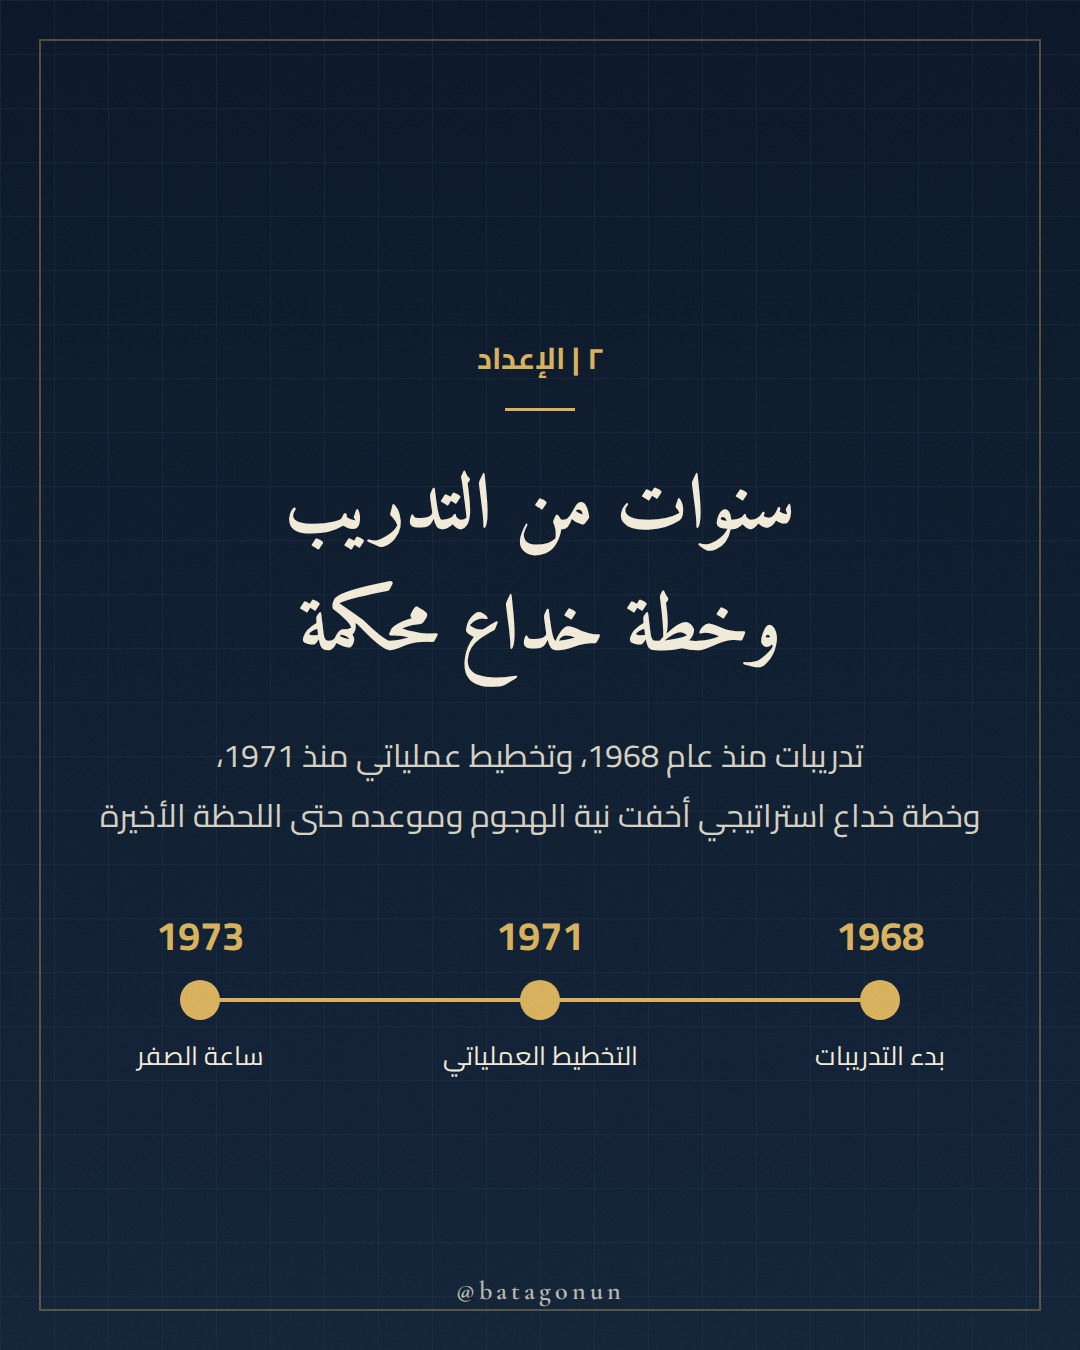
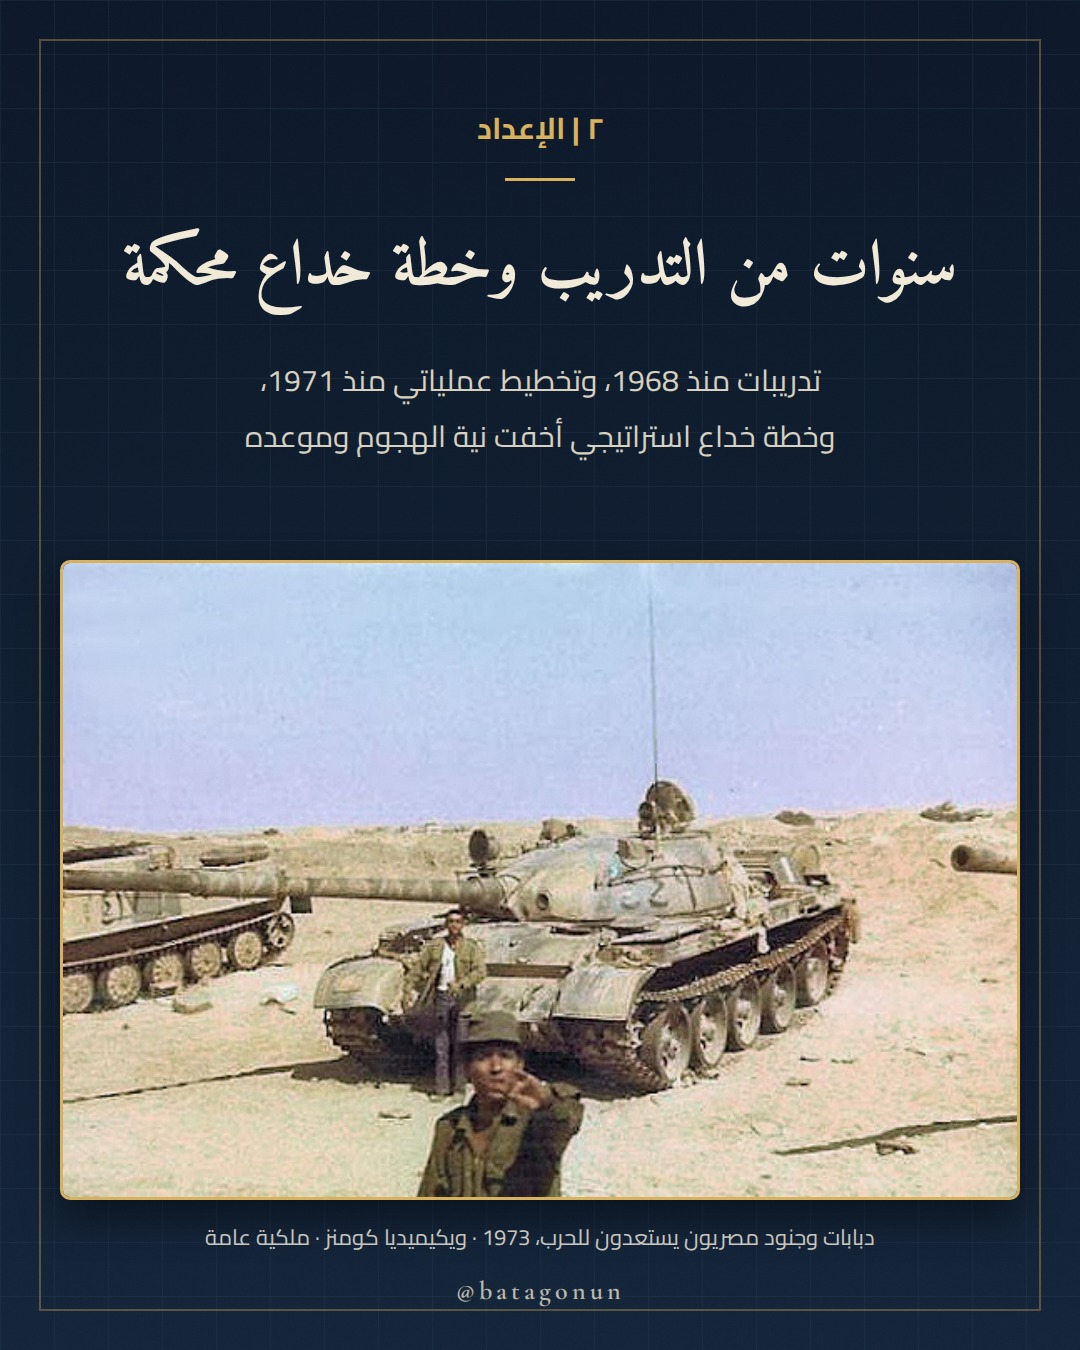
خطة بدر: كل الشرائح العشر بصور حقيقية من الملكية العامة
Claude-Session: https://claude.ai/code/session_014DGXiXjySD2k7u4dBqwjVk

diff --git a/instagram-agent/posts/build_badr.py b/instagram-agent/posts/build_badr.py
@@ -58,21 +58,23 @@ def stat(x,y,n,l): return f'<rect x="{x-200}" y="{y-80}" width="400" height="190
 numbers = stat(760,830,'10','كباري ثقيلة')+stat(320,830,'10','كباري عائمة')+stat(760,1060,'35','معدية')+stat(320,1060,'≈ 80 ألف','جندي عبروا بحلول منتصف الليل')
 
 CR='ويكيميديا كومنز · ملكية عامة'
+def P(i,tag,head,sub,photo,credit,size=72,subSize=30,boxTop=600,boxH=600,boxPos='center'):
+    return dict(id=i,scene='brief',tag=tag,headline=head,size=size,sub=sub,subSize=subSize,top=100,box='assets/photos/'+photo,boxTop=boxTop,boxH=boxH,boxPos=boxPos,credit=credit)
 slides = [
- dict(id='s01',scene='photo',photo='assets/photos/panorama.png',photoPos='center 75%',tag='٦ أكتوبر ١٩٧٣ | ١٠ رمضان ١٣٩٣',headline='كيف عبرنا؟<br>خطة «بدر»<br>في ١٠ شرائح',size=88,sub='اسحب ← وتعرّف على أعظم عملية عبور في التاريخ الحديث',credit='لوحة العبور من بانوراما حرب أكتوبر بالقاهرة · '+CR),
+ P('s01','٦ أكتوبر ١٩٧٣ | ١٠ رمضان ١٣٩٣','كيف عبرنا؟ خطة «بدر»','اسحب ← واعرف القصة في ١٠ صور حقيقية','flag.png','جنود مصريون يرفعون العلم فوق أحد حصون خط بارليف بعد الاستيلاء عليه · '+CR,size=80,boxTop=480,boxH=700,boxPos='30% center'),
  dict(id='s02',scene='photo',photo='assets/photos/barlev_fort.png',photoPos='center 80%',tag='١ | العائق',headline='خط بارليف',size=96,sub='ساتر ترابي على الضفة الشرقية للقناة،<br>تعلوه نقاط حصينة وخنادق، واعتُبر عائقًا يستحيل اختراقه',subSize=32,credit='خندق ونقطة حصينة من خط بارليف · من كتاب «المعارك الحربية على الجبهة المصرية» لجمال حماد · '+CR),
- dict(id='s03',scene='brief',tag='١ | العائق · مقطع توضيحي',headline='ساتر بارتفاع<br>٧ أدوار تقريبًا',size=78,sub='رسم توضيحي لمقطع الساتر الترابي على الضفة الشرقية',subSize=30,svg=barlev),
- dict(id='s04',scene='brief',tag='٢ | الإعداد',headline='سنوات من التدريب<br>وخطة خداع محكمة',size=78,sub='تدريبات منذ عام 1968، وتخطيط عملياتي منذ 1971،<br>وخطة خداع استراتيجي أخفت نية الهجوم وموعده حتى اللحظة الأخيرة',subSize=32,top=330,svg=prep),
- dict(id='s05',scene='brief',tag='٣ | اختيار الموعد',headline='لماذا ٦ أكتوبر؟',size=90,sub='• سرعة التيار والمدّ في القناة مناسبة للعبور<br>• ضوء القمر معظم الليل لتسهيل بناء الكباري<br>• يوم «كيبور» عند العدو، والعاشر من رمضان عندنا<br>• تنسيق مع سوريا للهجوم في التوقيت نفسه',subSize=34,top=260,svg=cal),
- dict(id='s06',scene='brief',tag='٤ | ساعة الصفر',headline='الساعة الثانية ظهرًا',size=86,sub='ضربة جوية، ثم واحدة من أكبر التمهيدات النيرانية في التاريخ',subSize=32,svg=timeline),
- dict(id='s07',scene='brief',box='assets/photos/suez_cia.png',boxTop=690,boxH=470,boxPos='center 70%',tag='٥ | الموجة الأولى',headline='٤٠٠٠ مقاتل<br>في الموجة الأولى',size=82,sub='عبروا القناة في نحو 2500 قارب مطاطي وخشبي،<br>وتسلّقوا الساتر بسلالم الحبال',subSize=32,credit='قناة السويس قرب الإسماعيلية، أكتوبر 1973 · وكالة المخابرات المركزية الأمريكية · '+CR),
- dict(id='s08',scene='brief',tag='٦ | الفكرة العبقرية',headline='الماء يهزم الرمل',size=90,sub='مضخات مياه بضغط عالٍ جرفت الساتر الترابي وفتحت ثغرات لعبور الدبابات<br>فكرة المهندس العسكري باقي زكي يوسف',subSize=30,svg=water),
- dict(id='s09',scene='brief',box='assets/photos/bridge.png',boxTop=640,boxH=560,tag='٧ | الكباري والمعديات',headline='جسور فوق القناة',size=90,sub='10 كباري ثقيلة • 5 خفيفة • 10 عائمة • 35 معدية<br>ونحو 80 ألف جندي عبروا بحلول منتصف الليل',subSize=32,credit='مركبات مصرية تعبر قناة السويس في 7 أكتوبر 1973 · '+CR),
- dict(id='s10',scene='brief',box='assets/photos/armor.png',boxTop=780,boxH=420,tag='٨ | النتيجة',headline='بحلول ٨ أكتوبر<br>رأس جسر بعمق ١٥ كم<br>على طول الضفة الشرقية',size=70,sub='التخطيط الدقيق + السرية + الإرادة = نصر<br>شاركنا: ما الدرس الذي تتعلمه من أكتوبر؟',subSize=32,credit='دبابات مصرية تتقدم في سيناء، أكتوبر 1973 · '+CR),
+ P('s03','١ | العائق','ساتر بارتفاع ٧ أدوار تقريبًا','من 20 إلى 25 مترًا، بميل من 45° إلى 65°،<br>تعلوه حصون من الخرسانة وأكياس الرمل والأسلاك الشائكة','storming.png','جنود مصريون أثناء اقتحام خط بارليف · '+CR,boxTop=560,boxH=640),
+ P('s04','٢ | الإعداد','سنوات من التدريب وخطة خداع محكمة','تدريبات منذ 1968، وتخطيط عملياتي منذ 1971،<br>وخطة خداع استراتيجي أخفت نية الهجوم وموعده','preparing.png','دبابات وجنود مصريون يستعدون للحرب، 1973 · '+CR,size=64,boxTop=560,boxH=640),
+ P('s05','٣ | اختيار الموعد','لماذا ٦ أكتوبر؟','تيار ومدّ مناسبان للعبور، وقمر معظم الليل لبناء الكباري،<br>وتوقيت مفاجئ للعدو، وتنسيق كامل مع سوريا','sadat.png','الرئيس السادات وقادته على الجبهة المصرية · '+CR,size=84,boxTop=560,boxH=640,boxPos='center 30%'),
+ P('s06','٤ | ساعة الصفر','الساعة الثانية ظهرًا','14:00 ضربة جوية بأكثر من 200 طائرة<br>14:05 تمهيد نيراني من نحو 2000 مدفع لمدة 53 دقيقة','aircraft.png','طائرات مصرية في طريقها لضرب أهداف في سيناء · '+CR,size=80,boxTop=560,boxH=640),
+ P('s07','٥ | الموجة الأولى','٤٠٠٠ مقاتل في الموجة الأولى','عبروا القناة في نحو 2500 قارب مطاطي وخشبي،<br>وتسلّقوا الساتر بسلالم الحبال','boat.png','جنود مصريون في قارب أثناء عبور قناة السويس · '+CR,size=68,boxTop=560,boxH=640),
+ P('s08','٦ | الفكرة العبقرية','الماء يهزم الرمل','مضخات مياه بضغط عالٍ جرفت الساتر وفتحت الثغرات لعبور الدبابات<br>فكرة المهندس العسكري باقي زكي يوسف','bridge2.png','شاحنات مصرية تعبر كوبري فوق القناة عبر ثغرة في الساتر، 7 أكتوبر 1973 · '+CR,size=84,boxTop=560,boxH=640),
+ P('s09','٧ | الكباري والمعديات','جسور فوق القناة','10 كباري ثقيلة • 5 خفيفة • 10 عائمة • 35 معدية<br>ونحو 80 ألف جندي عبروا بحلول منتصف الليل','bridge.png','مركبات مصرية تعبر قناة السويس في 7 أكتوبر 1973 · '+CR,size=84,boxTop=560,boxH=640),
+ P('s10','٨ | النتيجة','بحلول ٨ أكتوبر: رأس جسر بعمق ١٥ كم','التخطيط الدقيق + السرية + الإرادة = نصر<br>شاركنا: ما الدرس الذي تتعلمه من أكتوبر؟','celebrate.png','جنود مصريون يحتفلون بنجاح عبور قناة السويس · '+CR,size=62,boxTop=560,boxH=640),
 ]
 for s in slides: s['lang']='ar'
 caption = """كيف عبر المصريون قناة السويس وأسقطوا خط بارليف؟ 🇪🇬
-اسحب ← واقرأ خطة «بدر» في 10 شرائح بالصور.
+اسحب ← واقرأ خطة «بدر» في 10 صور حقيقية من الحرب.
 
 🔸 العائق: خط بارليف، ساتر ترابي بارتفاع 20 إلى 25 مترًا على الضفة الشرقية، تعلوه نقاط حصينة.
 🔸 الإعداد: تدريبات منذ 1968، وتخطيط منذ 1971، وخطة خداع استراتيجي أخفت موعد الهجوم.
@@ -86,7 +88,7 @@ caption = """كيف عبر المصريون قناة السويس وأسقطوا
 احفظ البوست 🔖 وشاركه مع من يحب التاريخ.
 ما الدرس الذي تتعلمه من أكتوبر؟ 👇
 
-المصادر: موسوعة ويكيبيديا (Operation Badr 1973، Bar Lev Line)، ودراسة مكتبة الكونغرس عن مصر.\nالصور: ويكيميديا كومنز (ملكية عامة)، منها صور من كتاب «المعارك الحربية على الجبهة المصرية» لجمال حماد، ولوحة من بانوراما حرب أكتوبر.
+المصادر: موسوعة ويكيبيديا (Operation Badr 1973، Bar Lev Line)، ودراسة مكتبة الكونغرس عن مصر.\nالصور: ويكيميديا كومنز (ملكية عامة)، ومنها صور من كتاب «المعارك الحربية على الجبهة المصرية» لجمال حماد.
 
 #نصر_أكتوبر #خط_بارليف #العبور #مصر #6_أكتوبر"""
 json.dump({"batch":"2026-10-badr-plan","status":"pending_review","publish":"immediately_after_approval","caption":caption,"posts":slides},open('posts/2026-10-badr-plan.json','w'),ensure_ascii=False,indent=2)

diff --git a/instagram-agent/assets/photos/CREDITS.md b/instagram-agent/assets/photos/CREDITS.md
@@ -6,3 +6,11 @@
 | armor.png | File:Egyptian_Armor.jpg | دبابات مصرية تتقدم في سيناء | المصدر نفسه |
 | panorama.png | File:6th_of_October_Panorama,_part_4,_the_crossing_of_Suez.jpg | لوحة العبور من بانوراما أكتوبر بالقاهرة | October War Panorama |
 | suez_cia.png | File:Suez_Canal_Near_Ismailia,_Egypt_-_Flickr_-_The_Central_Intelligence_Agency.jpg | قناة السويس قرب الإسماعيلية، أكتوبر 1973 | CIA |
+| flag.png | File:Egyptian_soldiers_raising_the_Egyptian_flag_over_a_Bar_Lev_Line_fort_after_capturing_it.png | جنود مصريون يرفعون العلم فوق حصن من خط بارليف | ملكية عامة |
+| storming.png | File:Egyptian_soldiers_during_their_storming_of_the_Bar_Lev_Line.png | جنود مصريون أثناء اقتحام خط بارليف | ملكية عامة |
+| preparing.png | File:Egyptian_tanks_and_soldiers_preparing_for_war_with_Israel.jpg | دبابات وجنود يستعدون للحرب، 1973 | ملكية عامة |
+| sadat.png | File:Sadat_on_the_Egyptian_Front,_October_War.png | السادات على الجبهة المصرية | ملكية عامة |
+| aircraft.png | File:Egyptian_aircraft_are_on_their_way_to_attack_Sinai.jpg | طائرات مصرية في طريقها لسيناء | ملكية عامة |
+| boat.png | File:Egyptian_soldiers_on_a_boat_during_the_crossing_of_the_Suez_Canal.png | جنود في قارب أثناء العبور | ملكية عامة |
+| bridge2.png | File:Bridge_Crossing.jpg | شاحنات تعبر كوبري فوق القناة، 7 أكتوبر 1973 | ملكية عامة |
+| celebrate.png | File:Ramadan_War.jpg | جنود يحتفلون بنجاح العبور | ملكية عامة |
